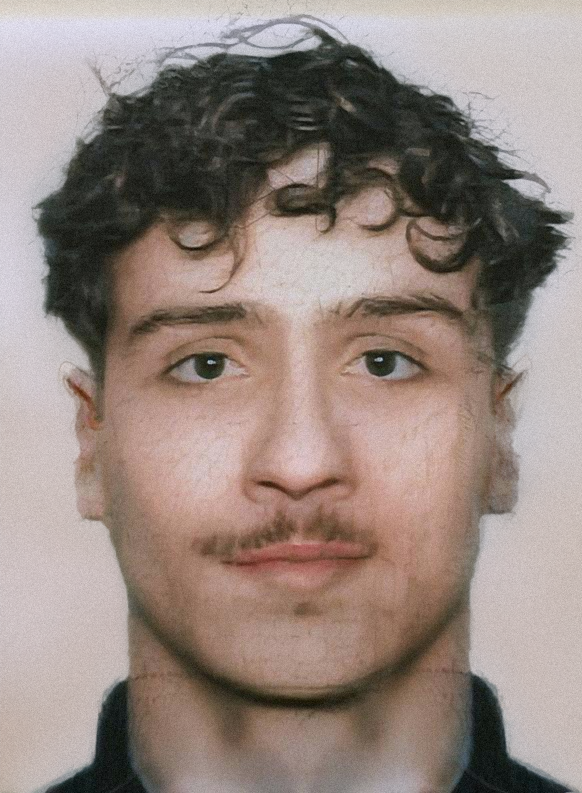
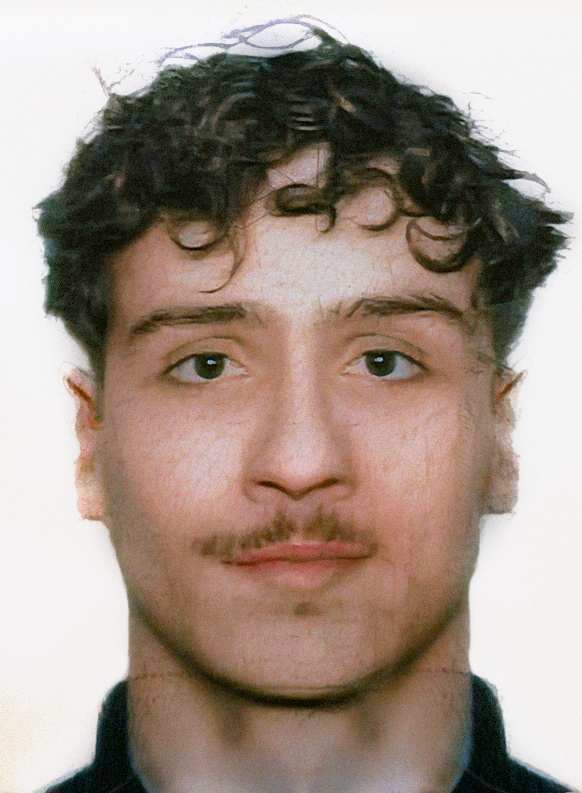
nye venner

diff --git a/src/database/cards.jsx b/src/database/cards.jsx
@@ -14,7 +14,7 @@ const events = [
     taget: "22/07/2025",
     givet: "22/07/2035",
     baggrund: "#f9f9f9",
-    tlf: "50868563",
+    tlf: "+45 50868563",
   },
   {
     id: 1,
@@ -30,7 +30,7 @@ const events = [
     taget: "22/07/2025",
     givet: "22/07/2035",
     baggrund: "#F4E0E5",
-    tlf: "50868563",
+    tlf: "+45 50868563",
   },
   {
     id: 2,
@@ -46,23 +46,23 @@ const events = [
     taget: "01/08/2025",
     givet: "01/08/2035",
     baggrund: "#f4ede0",
-    tlf: "51282129",
+    tlf: "+45 51282129",
   },
   {
     id: 3,
-    profil: "/assets/cards/friis.webp",
+    profil: "/assets/cards/martine.webp",
     nummer: "0003",
-    fornavn: "William",
-    efternavn: "Friis",
-    bydel_by: "Nordvest, København",
-    fodselsdato: "09/12/2001",
-    sex: "M",
-    hgt: "189",
-    eyes: "Blue",
-    taget: "01/08/2025",
-    givet: "01/08/2035",
+    fornavn: "Martine",
+    efternavn: "Beck",
+    bydel_by: "Vesterbro, Aarhus",
+    fodselsdato: "03/07/2002",
+    sex: "F",
+    hgt: "178",
+    eyes: "Brown",
+    taget: "21/11/2025",
+    givet: "21/11/2035",
     baggrund: "#E3E0F4",
-    tlf: "50868563",
+    tlf: "+45 50868563",
   },
   {
     id: 4,
@@ -78,7 +78,7 @@ const events = [
     taget: "15/08/2025",
     givet: "15/08/2035",
     baggrund: "#E8F4E0",
-    tlf: "60136983",
+    tlf: "+45 60136983",
   },
   {
     id: 5,
@@ -94,7 +94,7 @@ const events = [
     taget: "25/10/2025",
     givet: "25/10/2035",
     baggrund: "#E0F4F4",
-    tlf: "60125520",
+    tlf: "+45 60125520",
   },
   {
     id: 6,
@@ -110,58 +110,90 @@ const events = [
     taget: "26/10/2025",
     givet: "26/10/2035",
     baggrund: "#F4E8E0",
-    tlf: "24222927",
+    tlf: "+45 24222927",
   },
   {
     id: 7,
-    profil: "/assets/profil.webp",
-    nummer: "0001",
-    fornavn: "Oscar",
-    efternavn: "Laursen",
-    bydel_by: "Amager, København",
-    fodselsdato: "15/10/2001",
-    sex: "M",
-    hgt: "187",
-    eyes: "Blue",
-    taget: "22/07/2025",
-    givet: "22/07/2035",
+    profil: "/assets/cards/hevin.webp",
+    nummer: "0007",
+    fornavn: "Hevin",
+    efternavn: "Öven",
+    bydel_by: "Västra Torget, Jönköping",
+    fodselsdato: "07/07/2004",
+    sex: "F",
+    hgt: "164",
+    eyes: "Brown",
+    taget: "21/12/2025",
+    givet: "21/12/2035",
     baggrund: "#E0E6F4",
-    tlf: "50868563",
+    tlf: "+46 72126006",
   },
   {
     id: 8,
-    profil: "/assets/profil.webp",
-    nummer: "0001",
-    fornavn: "Oscar",
-    efternavn: "Laursen",
-    bydel_by: "Amager, København",
-    fodselsdato: "15/10/2001",
+    profil: "/assets/cards/jarne.webp",
+    nummer: "0008",
+    fornavn: "Jarne",
+    efternavn: "Vanbrabant",
+    bydel_by: "Universiteitsbuurt, Antwerp",
+    fodselsdato: "10/10/2005",
     sex: "M",
-    hgt: "187",
+    hgt: "178",
     eyes: "Blue",
-    taget: "22/07/2025",
-    givet: "22/07/2035",
+    taget: "21/12/2025",
+    givet: "21/12/2035",
     baggrund: "#F4E0ED",
     placering: "(-50%, -60%)",
-    tlf: "50868563",
+    tlf: "+32 46940933",
   },
   {
     id: 9,
-    profil: "/assets/profil.webp",
-    nummer: "0001",
-    fornavn: "Oscar",
-    efternavn: "Laursen",
-    bydel_by: "Amager, København",
-    fodselsdato: "15/10/2001",
-    sex: "M",
-    hgt: "187",
+    profil: "/assets/cards/sneki.webp",
+    nummer: "0009",
+    fornavn: "Snezhana",
+    efternavn: "Karastojanova",
+    bydel_by: "Liljeholmen, Söderort",
+    fodselsdato: "14/01/2001",
+    sex: "F",
+    hgt: "161",
     eyes: "Blue",
-    taget: "22/07/2025",
-    givet: "22/07/2035",
+    taget: "21/12/2025",
+    givet: "21/12/2035",
     baggrund: "#EBF4E0",
     placering: "(-50%, -60%)",
-    tlf: "50868563",
+    tlf: "+46 735671310",
   },
+  {
+    id: 10,
+    profil: "/assets/cards/jente.webp",
+    nummer: "0010",
+    fornavn: "Jente",
+    efternavn: "Wissels",
+    bydel_by: "Gelderland, Arnhem",
+    fodselsdato: "12/10/2002",
+    sex: "F",
+    hgt: "178",
+    eyes: "Blue",
+    taget: "21/12/2025",
+    givet: "21/12/2035",
+    baggrund: "#E3E0F4",
+    tlf: "+316 18142787",
+  },
+  // {
+  //   id: 11,
+  //   profil: "/assets/cards/friis.webp",
+  //   nummer: "0011",
+  //   fornavn: "William",
+  //   efternavn: "Friis",
+  //   bydel_by: "Nordvest, København",
+  //   fodselsdato: "09/12/2001",
+  //   sex: "M",
+  //   hgt: "189",
+  //   eyes: "Blue",
+  //   taget: "01/08/2025",
+  //   givet: "01/08/2035",
+  //   baggrund: "#E3E0F4",
+  //   tlf: "+45 50868563",
+  // },
 ];
 
 export default events;
